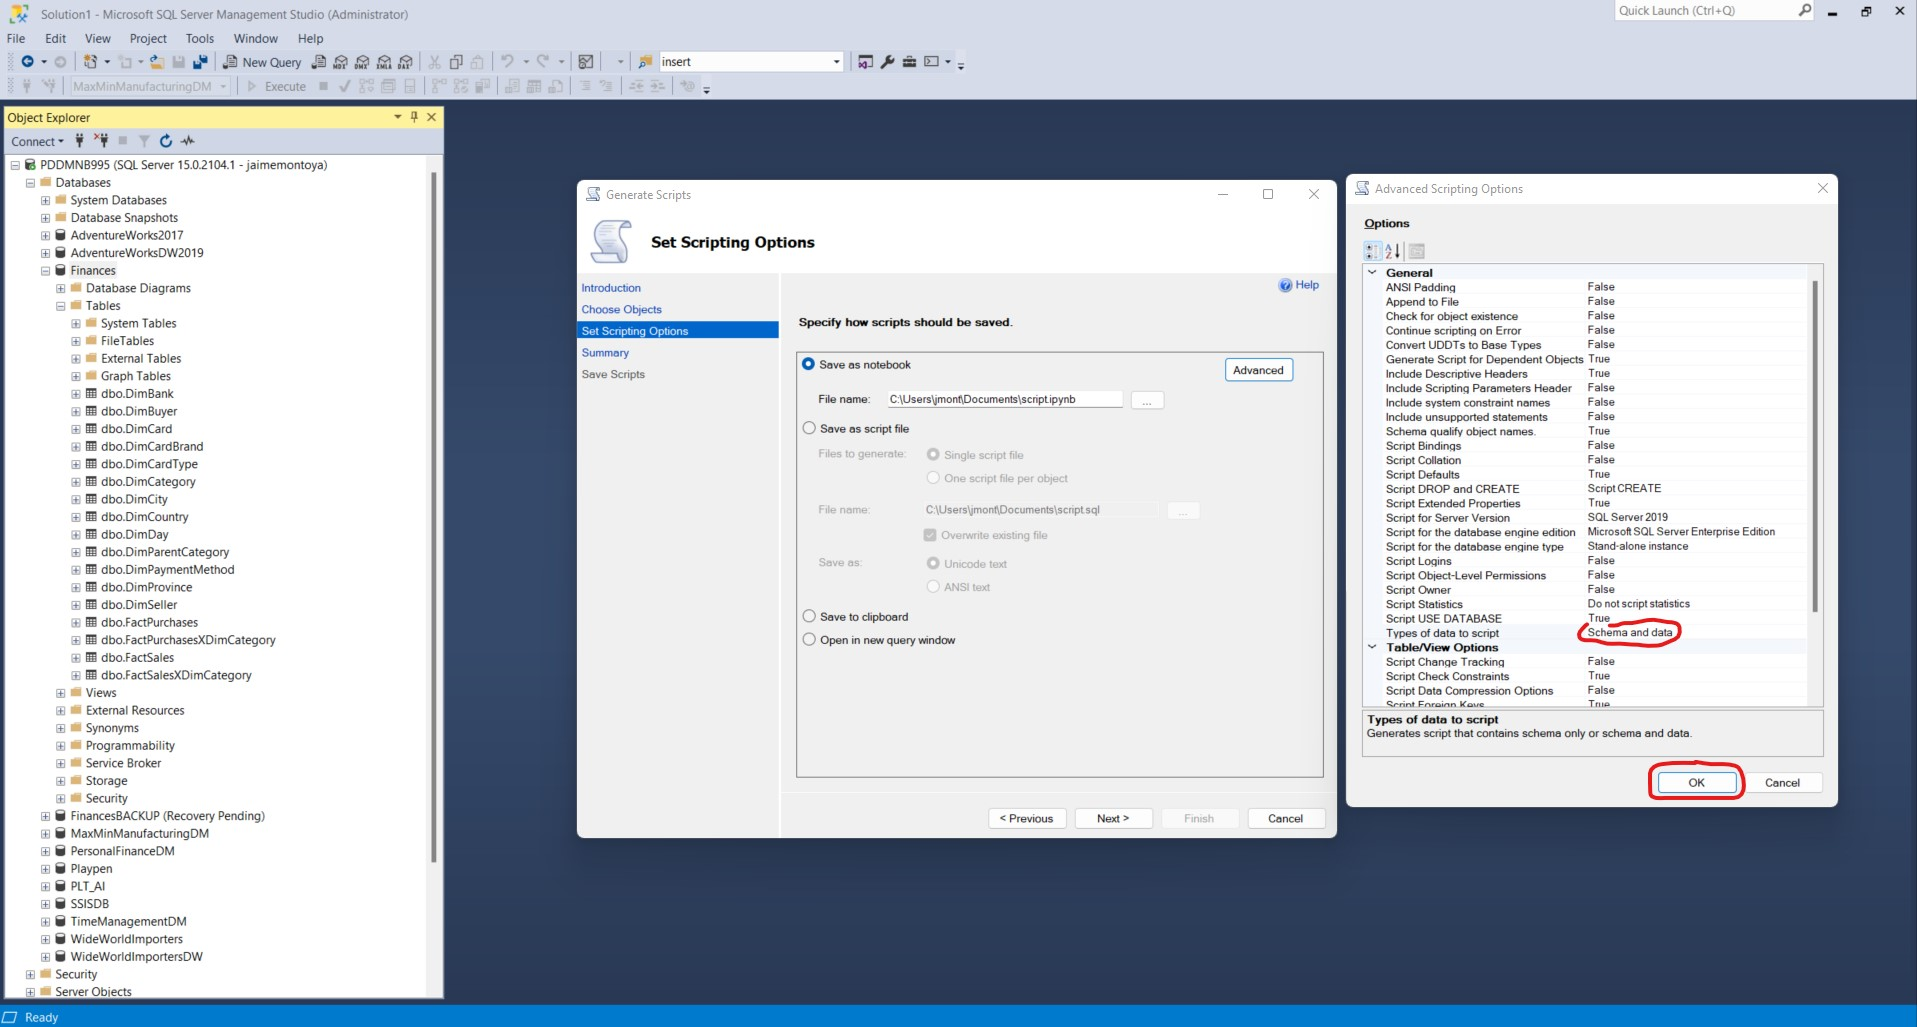
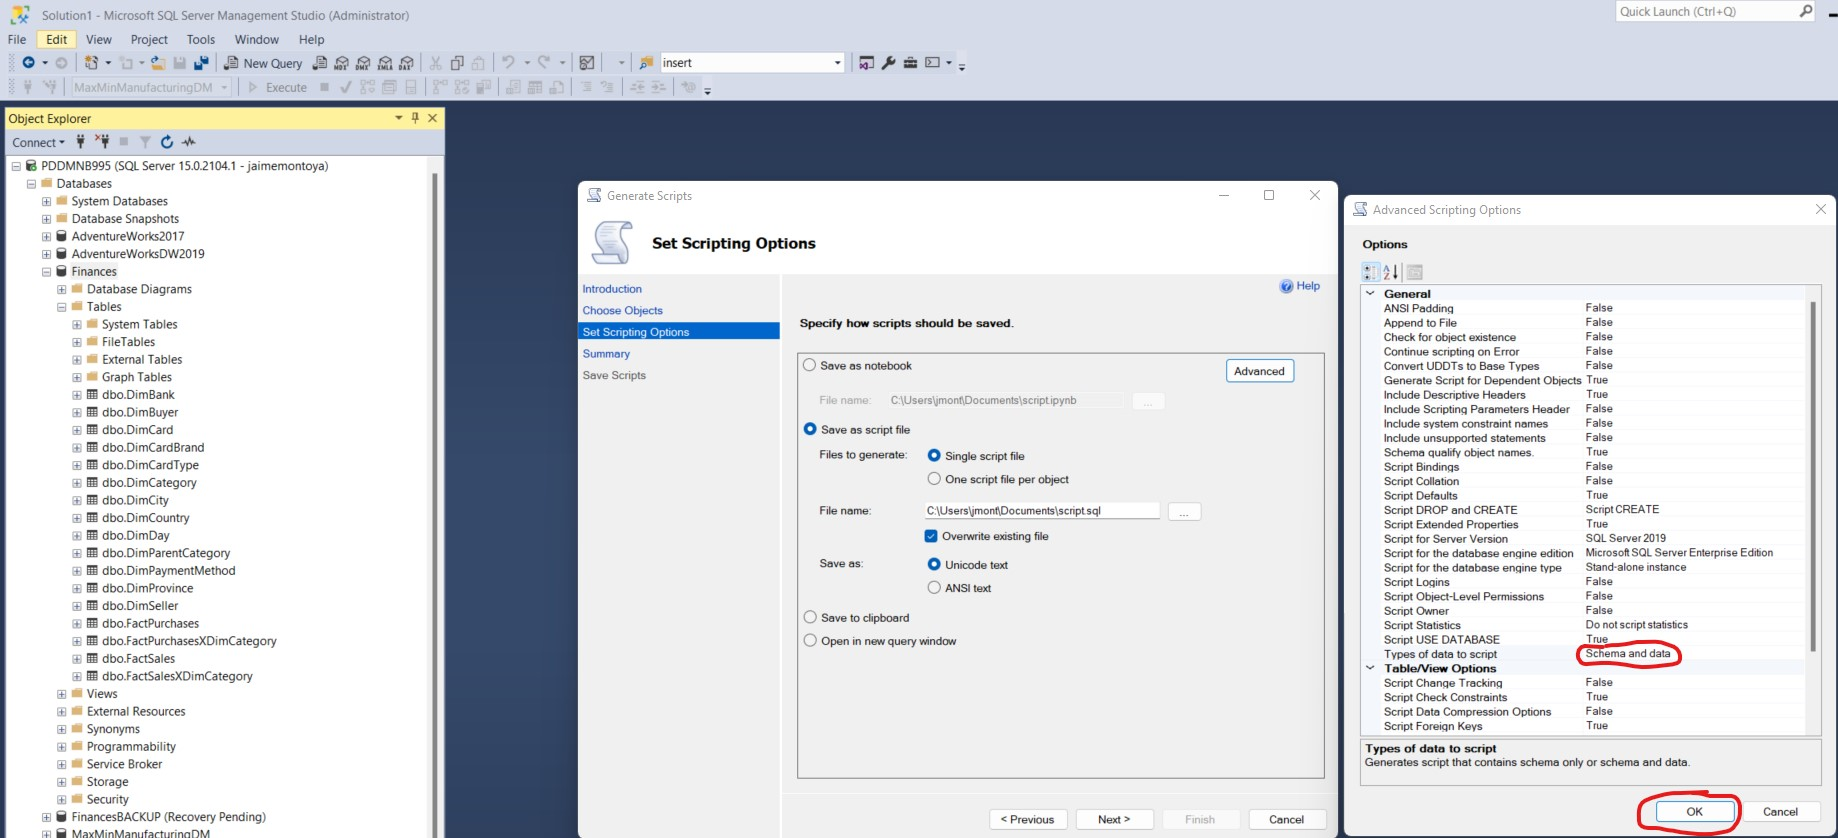
Update image.

diff --git a/blog/2023/12/31/06/14/book-info-20231231-0614.php b/blog/2023/12/31/06/14/book-info-20231231-0614.php
@@ -1,9 +1,8 @@
 <?php
   $index->content .= 
-           "<p>I wanted to perform multidimensional analysis on the information in my personal finance data mart. In order to achieve that, I needed to define an OLAP cube on top of that database, which contained the following tables:</p><div><img src=\"/blog/2023/12/31/06/14/img/showDatabaseAndDataMartTablesFromSQLServerManagementStudio.jpg\" alt=\"Show database and data mart tables from SQL Server Management Studio\" width=\"631\" height=\"1030\"></div><p>I right-clicked the database <span class=\"cod\">Finances</span>, selected <span class=\"cod\">Tasks</span>, and clicked <span class=\"cod\">Generate Scripts...</span>:</p><div><img src=\"/blog/2023/12/31/06/14/img/generateScripts.jpg\" alt=\"Generate Scripts...\" width=\"1918\" height=\"1029\"></div><p>The <span class=\"cod\">Generate Scripts Wizard</span> appeared. I clicked <span class=\"cod\">Next</span>:</p><div><img src=\"/blog/2023/12/31/06/14/img/generateScriptsWizard.jpg\" alt=\"Generate Scripts Wizard\" width=\"1918\" height=\"1025\"></div><p>From the <span class=\"cod\">Choose Options</span> window, I left <span class=\"cod\">Script entire database and all database objects</span> checked and clicked <span class=\"cod\">Next</span>:</p><div><img src=\"/blog/2023/12/31/06/14/img/scriptEntireDatabaseAndAllDatabaseObjects.jpg\" alt=\"Generate Scripts...\" width=\"1339\" height=\"842\"></div><p>From the <span class=\"cod\">Set Scripting Options</span> window, I selected <span class=\"cod\">Save as script file</span> and clicked <span class=\"cod\">Advanced</span>:</p><div><img src=\"/blog/2023/12/31/06/14/img/saveScriptAsScriptFile.jpg\" alt=\"Save script as script file\" width=\"1338\" height=\"841\"></div>
+           "<p>I wanted to perform multidimensional analysis on the information in my personal finance data mart. In order to achieve that, I needed to define an OLAP cube on top of that database, which contained the following tables:</p><div><img src=\"/blog/2023/12/31/06/14/img/showDatabaseAndDataMartTablesFromSQLServerManagementStudio.jpg\" alt=\"Show database and data mart tables from SQL Server Management Studio\" width=\"631\" height=\"1030\"></div><p>I right-clicked the database <span class=\"cod\">Finances</span>, selected <span class=\"cod\">Tasks</span>, and clicked <span class=\"cod\">Generate Scripts...</span>:</p><div><img src=\"/blog/2023/12/31/06/14/img/generateScripts.jpg\" alt=\"Generate Scripts...\" width=\"1918\" height=\"1029\"></div><p>The <span class=\"cod\">Generate Scripts Wizard</span> appeared. I clicked <span class=\"cod\">Next</span>:</p><div><img src=\"/blog/2023/12/31/06/14/img/generateScriptsWizard.jpg\" alt=\"Generate Scripts Wizard\" width=\"1918\" height=\"1025\"></div><p>From the <span class=\"cod\">Choose Options</span> window, I left <span class=\"cod\">Script entire database and all database objects</span> checked and clicked <span class=\"cod\">Next</span>:</p><div><img src=\"/blog/2023/12/31/06/14/img/scriptEntireDatabaseAndAllDatabaseObjects.jpg\" alt=\"Generate Scripts...\" width=\"1339\" height=\"842\"></div><p>From the <span class=\"cod\">Set Scripting Options</span> window, I selected <span class=\"cod\">Save as script file</span> and clicked <span class=\"cod\">Advanced</span>:</p><div><img src=\"/blog/2023/12/31/06/14/img/saveScriptAsScriptFile.jpg\" alt=\"Save script as script file\" width=\"1338\" height=\"841\"></div><p>From the <span class=\"cod\">Advanced Scripting Options</span> window, for <span class=\"cod\">Types of data to script</span> I changed the value from <span class=\"cod\">Schema only</span> to <span class=\"cod\">Schema and data</span>. Then I clicked <span class=\"cod\">OK</span>:</p><div><img src=\"/blog/2023/12/31/06/14/img/chooseSchemaAndDataAsTheTypeOfDataToScript.jpg\" alt=\"Choose Schema and Data as the Type of data to script\" width=\"1838\" height=\"838\"></div>
 		   
-		   
-		   <p>From the <span class=\"cod\">Advanced Scripting Options</span> window, for <span class=\"cod\">Types of data to script</span> I changed the value from <span class=\"cod\">Schema only</span> to <span class=\"cod\">Schema and data</span>. Then I clicked <span class=\"cod\">OK</span>:</p><div><img src=\"/blog/2023/12/31/06/14/img/chooseSchemaAndDataAsTheTypeOfDataToScript.jpg\" alt=\"Choose Schema and Data as the Type of data to script\" width=\"1917\" height=\"1027\"></div><p>I clicked <span class=\"cod\">Next</span>:</p><div><img src=\"/blog/2023/12/31/06/14/img/clickNextAfterChoosingTypeOfDataToScript.jpg\" alt=\"Click Next after choosing type of data to script\" width=\"1342\" height=\"842\"></div>
+		   <p>I clicked <span class=\"cod\">Next</span>:</p><div><img src=\"/blog/2023/12/31/06/14/img/clickNextAfterChoosingTypeOfDataToScript.jpg\" alt=\"Click Next after choosing type of data to script\" width=\"1342\" height=\"842\"></div>
 		   
 		   
 		   
